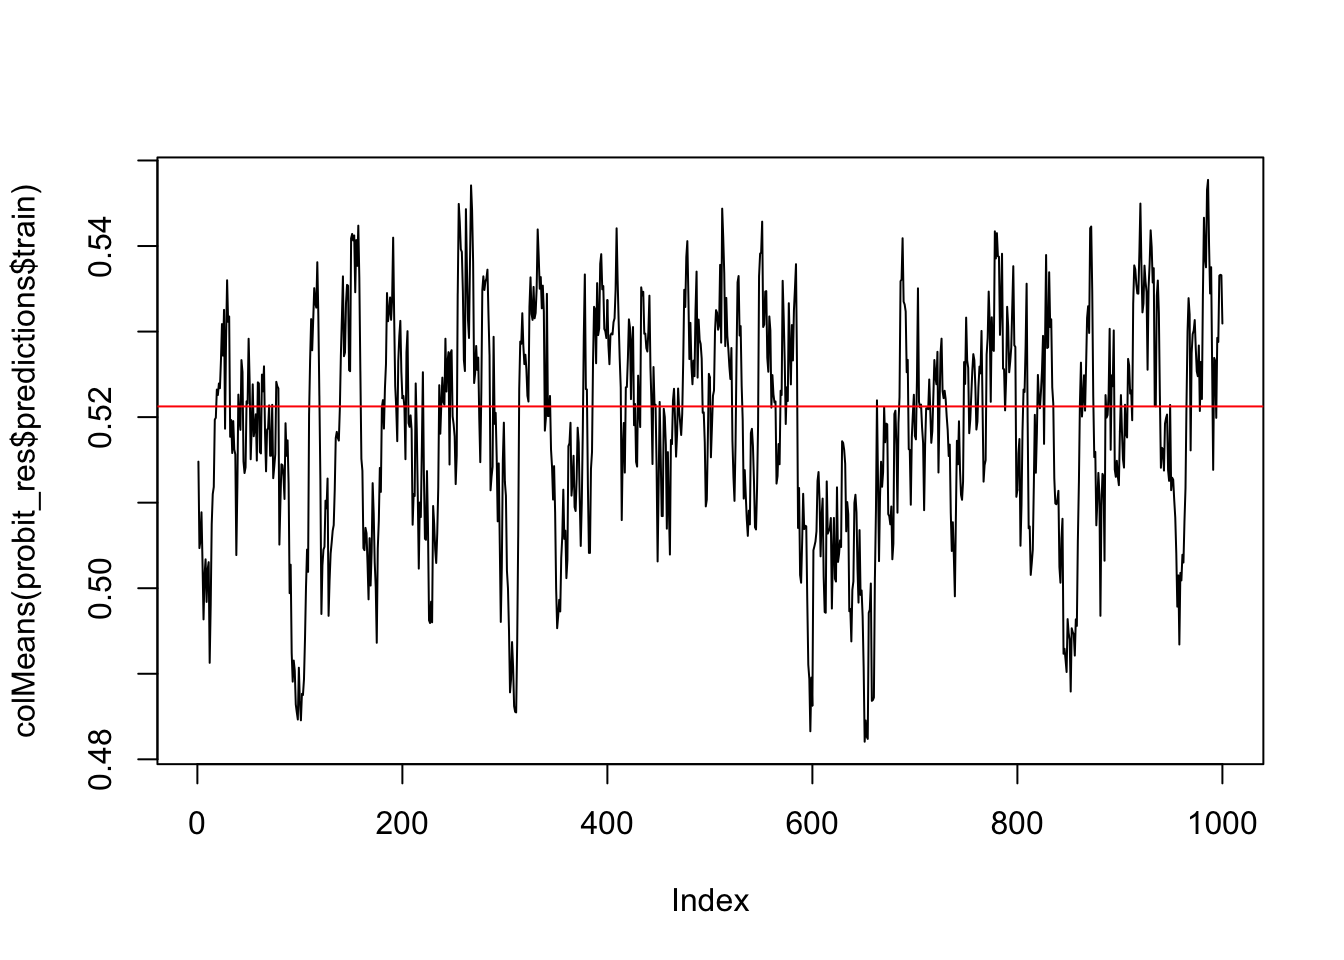
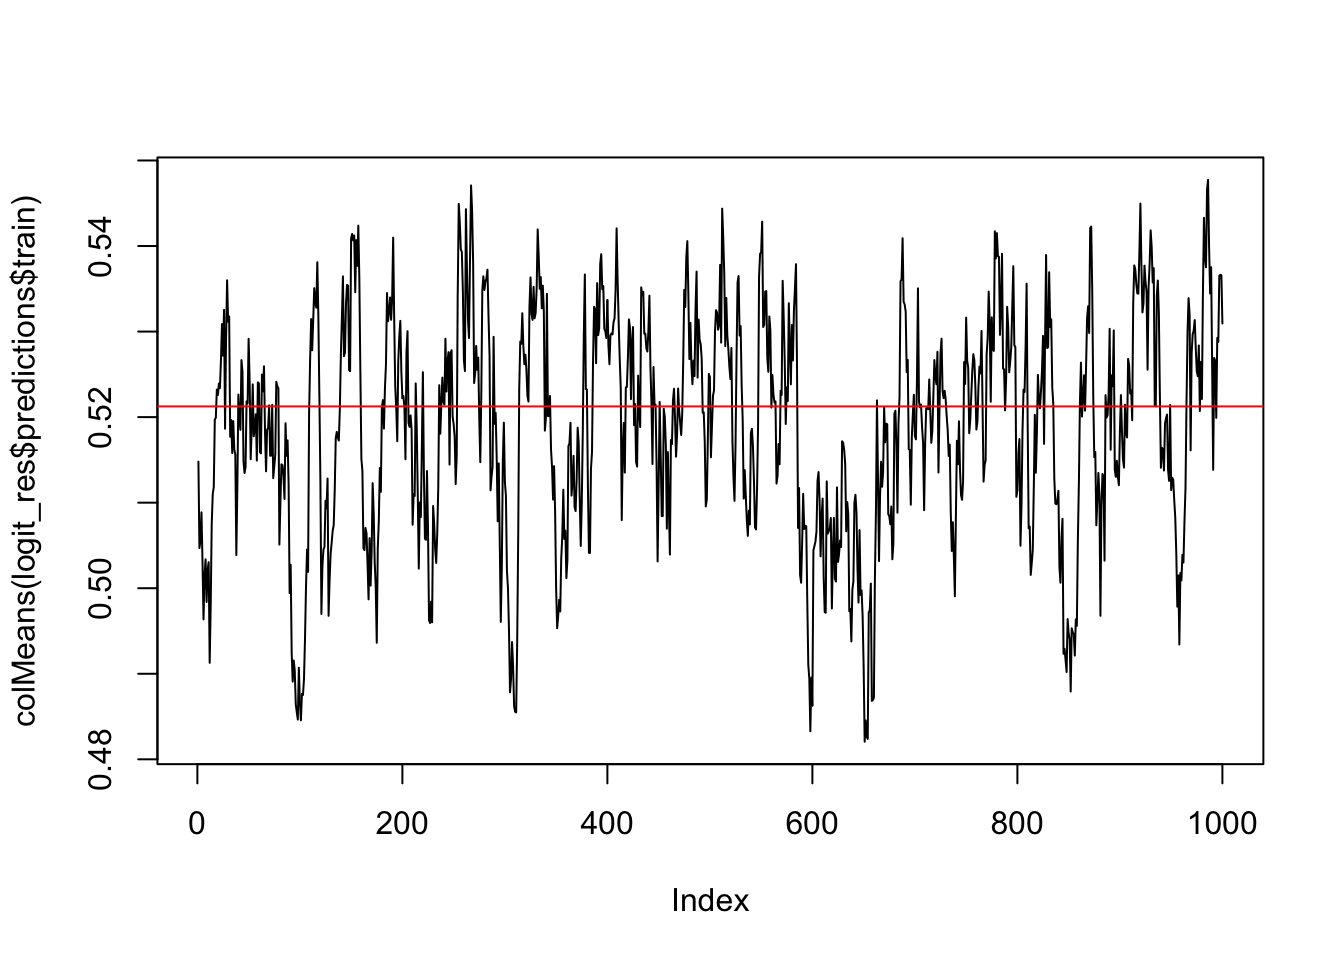
refining logistic example

Changed region(s): [[0.0, 0.1875, 0.0312, 0.7812]]

diff --git a/docs/examples.html b/docs/examples.html
@@ -595,7 +595,7 @@ plot(iris$Petal.Width, iris$Sepal.Length, col=as.factor(iris$Species),pch=20,
 </div>
 <div id="logit-regression-example" class="section level2">
 <h2>Logit Regression Example</h2>
-<p>In this section we look at an example using <code>PDPMix()</code> - a Chinese Restaurant Process mixture of probit regressions. Let’s simulate binary outcomes from two distinct clusters</p>
+<p>In this section we look at an example using <code>PDPMix()</code> - a Chinese Restaurant Process mixture of logistic regressions. Let’s simulate binary outcomes from two distinct clusters</p>
 <pre class="r"><code>set.seed(1)
 n&lt;-1000 # simulate 1000 subjects
 
@@ -634,7 +634,7 @@ test_ids &lt;- sample(1:1000, 200, F)
 d_test &lt;- d[test_ids, ]
 d_train &lt;- d[-test_ids, ]
 
-probit_res &lt;- PDPMix(d_train = d_train, d_test = d_test, 
+logit_res &lt;- PDPMix(d_train = d_train, d_test = d_test, 
                      formula = y ~ X1 + X2,
                      burnin = 4000, iter = 5000, 
                      beta_prior_var = rep(3, 3), # fairly flat priors
@@ -652,14 +652,16 @@ probit_res &lt;- PDPMix(d_train = d_train, d_test = d_test,
 ## Iteration 4001 of 5000 (sampling) 
 ## Iteration 4501 of 5000 (sampling) 
 ## Sampling Complete.</code></pre>
-<pre class="r"><code>post_pred_train &lt;- rowMeans(probit_res$predictions$train) 
-post_pred_test &lt;- rowMeans(probit_res$predictions$test) </code></pre>
+<pre class="r"><code>post_pred_train &lt;- rowMeans(logit_res$predictions$train) 
+post_pred_test &lt;- rowMeans(logit_res$predictions$test) </code></pre>
 <p>First let’s do some posterior predictive checks against the data to assess model fit.</p>
 <pre class="r"><code>boxplot(post_pred_train ~ d_train$y)</code></pre>
-<p><img src="examples_files/figure-html/logit3-1.png" width="672" /> This looks okay. The events are well-separated in the training set. Let’s look at the MCMC chain for the marginal probability of the event…it oscillates around the marginal probability observed in the training data (indicated by the red line).</p>
-<pre class="r"><code>plot(colMeans(probit_res$predictions$train), type=&#39;l&#39; )
+<p><img src="examples_files/figure-html/logit3-1.png" width="672" /></p>
+<p>This looks okay. The events are well-separated in the training set. Let’s look at the MCMC chain for the marginal probability of the event…it oscillates around the marginal probability observed in the training data (indicated by the red line).</p>
+<pre class="r"><code>plot(colMeans(logit_res$predictions$train), type=&#39;l&#39; )
 abline(h=mean(d_train$y), col=&#39;red&#39;)</code></pre>
-<p><img src="examples_files/figure-html/logit4-1.png" width="672" /> This indicates an okay fit…should other sensible posterior predictive checks should be done as well. E.g. summarize observed and posterior mean probabilities within levels of covariates (deciles for numeric ones) is also sensible.</p>
+<p><img src="examples_files/figure-html/logit4-1.png" width="672" /></p>
+<p>This indicates an okay fit…should other sensible posterior predictive checks should be done as well. E.g. summarize observed and posterior mean probabilities within levels of covariates (deciles for numeric ones) is also sensible.</p>
 <p>Let’s use the <code>pROC</code> package to plot the ROC curve in the training and testing dataset. This is a fully Bayesian method, so we actually have 1000 posterior ROC curves - yielding 1000 posterior AUCs, sensitivities, and specificities, etc. Let’s go ahead and compute the ROC associated with the posterior mean probability for each subject.</p>
 <pre class="r"><code>library(pROC)
 
@@ -687,7 +689,7 @@ legend(&#39;bottomright&#39;,legend=c(&#39;Training&#39;,&#39;Test&#39;), col=c(
 <p>Let’s plot the posterior distribution for AUC.</p>
 <pre class="r"><code>auc_post_dist &lt;- numeric(length = 1000) 
 for(i in 1:1000){
-  auc_post_dist[i] &lt;- pROC::auc(d_train$y, probit_res$predictions$train[,i])
+  auc_post_dist[i] &lt;- pROC::auc(d_train$y, logit_res$predictions$train[,i])
 }
 
 hist(auc_post_dist, main=&#39;Posterior distribution for AUC&#39;, xlab=&#39;AUC draws&#39;)
